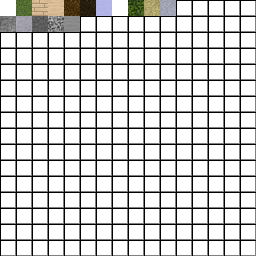
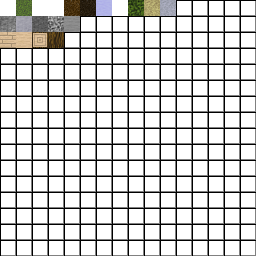
solid property and trees (need changes)

Changed region(s): [[0.0, 0.125, 0.25, 0.1875], [0.125, 0.0, 0.25, 0.0625]]

diff --git a/src/level.js b/src/level.js
@@ -207,6 +207,21 @@ function generateRandom() {
     }
 }
 
+function generateTree(x, y) {
+    const height = 5;
+    if (game.level.getTile(game.level.ground, x, y) == game.tiles.void) {
+        game.level.setTile(game.level.ground, x, y, game.tiles.trunk);
+        for (let i = 1; i < height; ++i) {
+            game.level.setTile(game.level.ground, x, y - i, game.tiles.log);
+        }
+        for (let i = -1; i < 2; ++i) {
+            for (let j = -1; j < 2; ++j) {
+                game.level.setTile(game.level.above, x + i, y + j - height, game.tiles.leaves);
+            }
+        }
+    }
+}
+
 function generateNoise() {
     const prng = random.getPrng(game.level.seed);
     const scale = 0.1;
@@ -230,16 +245,23 @@ function generateNoise() {
                 game.level.tileIds[i] = game.tiles.sand;
                 game.level.tileIds[groundStart + i] = game.tiles.void;
             }
-            for (let j = 0; j < 5; ++j) {
-                const randomX = random.getRandomInt(prng, 0, game.level.width);
-                const randomY = random.getRandomInt(prng, 0, game.level.height);
-            }
             ++i;
         }
     }
 
     for (let j = aboveStart; j < game.level.totalArea; ++j) {
         game.level.tileIds[j] = game.tiles.void;
+    }
+
+    const clayCount = 16;
+    // TODO
+
+    const treeCount = 32;
+    for (let j = 0; j < treeCount; ++j) {
+        generateTree(
+            random.getRandomInt(prng, 0, game.level.width),
+            random.getRandomInt(prng, 0, game.level.height)
+        );
     }
 }
 
@@ -275,7 +297,7 @@ function getTileBoxes(layer, a) {
 
     for (let y = minTileY; y <= maxTileY; ++y) {
         for (let x = minTileX; x <= maxTileX; ++x) {
-            if (getTile(layer, x, y) !== game.tiles.void) {
+            if (game.tiles.solid[getTile(layer, x, y)]) {
                 tiles.push({
                     minX: x * 16,
                     minY: y * 16,

diff --git a/src/tiles.js b/src/tiles.js
@@ -11,18 +11,19 @@ export function initTiles() {
         {
             index: 0,
             name: "void",
+            solid: false
         },
         {
             index: 0,
-            name: "void wall",
+            name: "void wall"
         },
         {
             index: 18,
-            name: "stone",
+            name: "stone"
         },
         {
             index: 4,
-            name: "dirt",
+            name: "dirt"
         },
         {
             index: 1,
@@ -40,11 +41,25 @@ export function initTiles() {
         {
             index: 2,
             name: "wood"
+        },
+        {
+            index: 34,
+            name: "trunk"
+        },
+        {
+            index: 35,
+            name: "log",
+            solid: false
+        },
+        {
+            index: 8,
+            name: "leaves"
         }
     ];
 
     const indices = [];
     const names = [];
+    const solid = [];
 
     const addBehaviors = [];
     const removeBehaviors = [];
@@ -53,6 +68,7 @@ export function initTiles() {
 
     const defaultIndex = 18;
     const defaultName = "missingno";
+    const defaultSolid = true;
 
     const defaultAdd = (layer, x, y) => {}
     const defaultRemove = (layer, x, y) => {}
@@ -62,6 +78,7 @@ export function initTiles() {
     for (let i = 0; i < tiles.length; ++i) {
         indices[i] = tiles[i].index ?? defaultIndex;
         names[i] = tiles[i].name ?? defaultName;
+        solid[i] = tiles[i].solid ?? defaultSolid;
         
         addBehaviors[i] = tiles[i].add ?? defaultAdd;
         removeBehaviors[i] = tiles[i].remove ?? defaultRemove;
@@ -78,6 +95,9 @@ export function initTiles() {
         sand: 5,
         clay: 6,
         wood: 7,
+        trunk: 8,
+        log: 9,
+        leaves: 10,
         numberOfTiles: tiles.length,
 
         getIdsFromIndex,
@@ -85,6 +105,7 @@ export function initTiles() {
 
         indices,
         names,
+        solid,
 
         addBehaviors,
         removeBehaviors,

diff --git a/src/player.js b/src/player.js
@@ -53,7 +53,7 @@ export function update(deltaTime) {
     if (game.input.isMouseDown()) {
         let tileId;
         if (game.input.mouseButton == game.input.left) {
-            tileId = game.tiles.wood;
+            tileId = game.tiles.trunk;
         } else if (game.input.mouseButton == game.input.right) {
             tileId = game.tiles.void;
         }